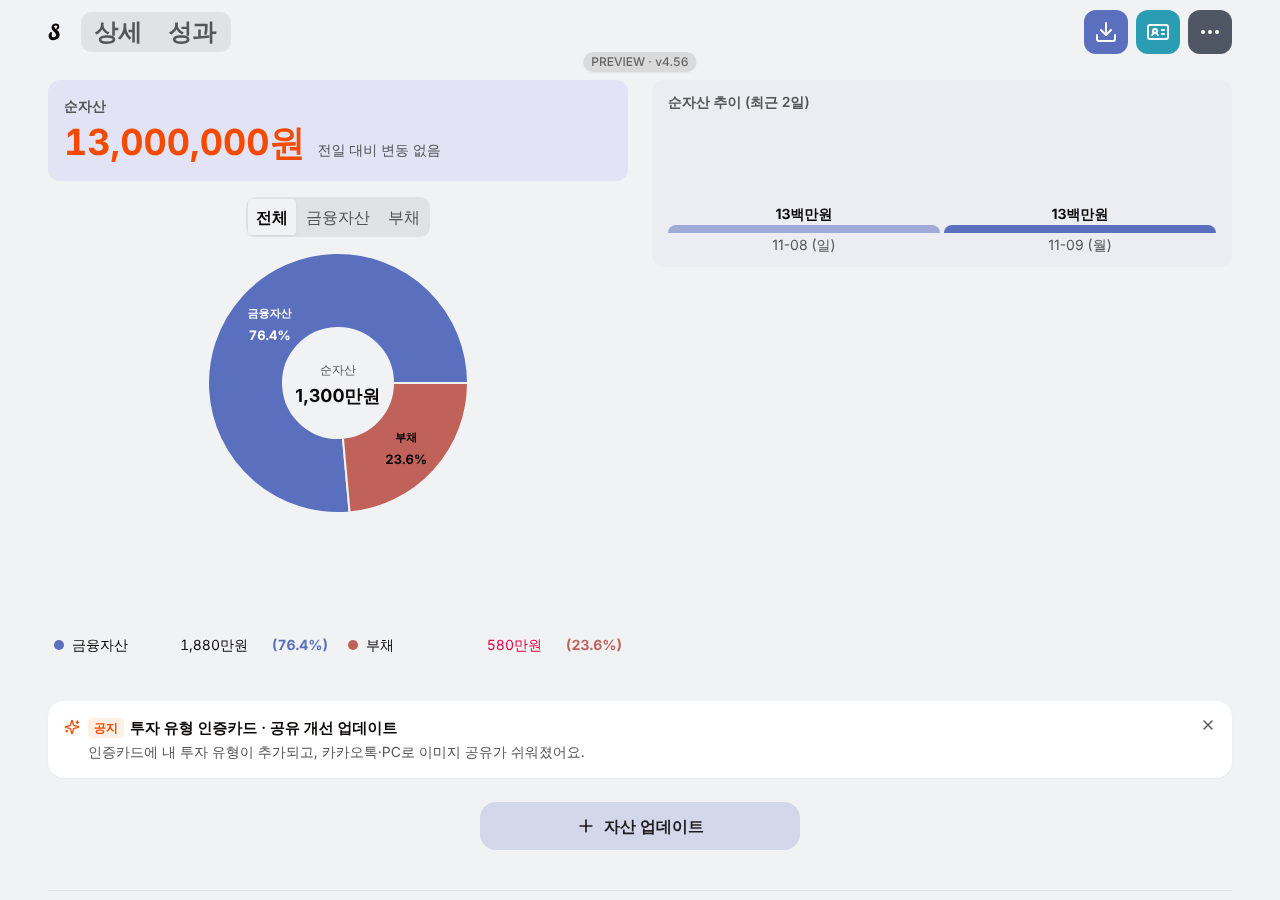
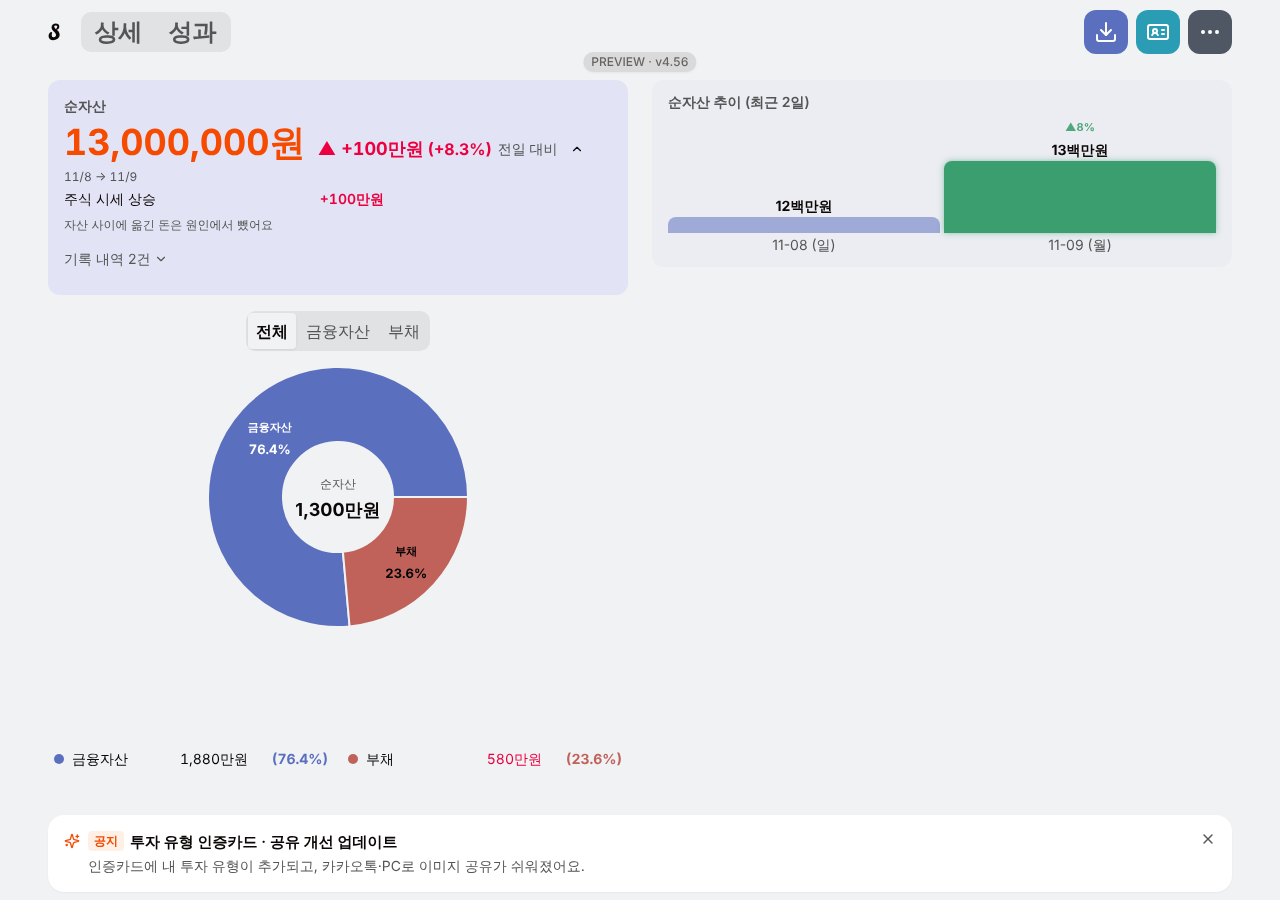
memory: 4.56 최종 qa(869984a) FAIL 경미 1건(F4 320 미리보기 잘림), 데이터 안전 45/45

diff --git a/issues/4.56-103-cross-asset-flow/harness-qa/e2e58/t3.js b/issues/4.56-103-cross-asset-flow/harness-qa/e2e58/t3.js
@@ -1,0 +1,43 @@
+const L=require('./lib.js');const SH='/home/user/vaultfolio-4.56'.length&&'/home/user/vaultfolio/.memory/issues/4.56-103-cross-asset-flow/screenshots/';
+const J=JSON.stringify;
+const R={proxy:process.env.HTTPS_PROXY?{server:process.env.HTTPS_PROXY}:undefined};
+const bal=(d)=>J({cash:d.cash.map(c=>c.id+':'+c.balance),loans:d.loans.map(c=>c.id+':'+c.balance),ctx:d.cashTransactions.length,ltx:d.loanTransactions.length,tx:d.transactions.length});
+async function step(name,fn){try{console.log('\n## '+name);await fn();}catch(e){console.log('!! ERR',name,e.message.split('\n')[0]);}}
+(async()=>{const b=await L.chromium.launch(R);
+const A=(o)=>L.mk(o);
+await step('F1 현금 하한(KRW): 잔액 800000, 80만 매수 전액',async()=>{
+ const {ctx,p}=await L.open(b,{asset:A({cash:[{id:'a',type:'bank',name:'증권 예수금',balance:800000,currency:'KRW'}]})});
+ const o=await L.trade(p,{kind:'stock',id:'s1',type:'buy',qty:10,price:80000,link:'증권 예수금',submit:false,shot:SH+'4.58-qa-F1-zero-375.png'});console.log(J(o));
+ const d=await p.locator('[role=dialog]').last().getByRole('button',{name:/매수 기록/}).click();await p.waitForTimeout(800);
+ console.log(' toast',J(await p.locator('[data-sonner-toast]').allTextContents()),'저장 후',bal(await L.data(p)));await ctx.close();});
+await step('F2 현금 하한: 잔액 800001 → 1원 남김 허용',async()=>{
+ const {ctx,p}=await L.open(b,{asset:A({cash:[{id:'a',type:'bank',name:'증권 예수금',balance:800001,currency:'KRW'}]})});
+ const o=await L.trade(p,{kind:'stock',id:'s1',type:'buy',qty:10,price:80000,link:'증권 예수금'});console.log(J(o),bal(await L.data(p)));await ctx.close();});
+await step('F3 대출 하한 0원: 대출 300000, 매도 300000 상환',async()=>{
+ const {ctx,p}=await L.open(b,{asset:A({loans:[{id:'l',type:'credit',name:'신용대출',balance:300000,interestRate:3,startDate:'2025-01-01'}]})});
+ const o=await L.trade(p,{kind:'stock',id:'s1',type:'sell',qty:5,price:60000,link:'신용대출',shot:SH+'4.58-qa-F3-loan0-375.png'});console.log(J(o),bal(await L.data(p)));await ctx.close();});
+await step('F3b 대출 초과 상환 차단: 대출 300000, 매도 400000',async()=>{
+ const {ctx,p}=await L.open(b,{asset:A({loans:[{id:'l',type:'credit',name:'신용대출',balance:300000,interestRate:3,startDate:'2025-01-01'}]})});
+ const o=await L.trade(p,{kind:'stock',id:'s1',type:'sell',qty:5,price:80000,link:'신용대출',shot:SH+'4.58-qa-F3b-loan-over-375.png'});console.log(J(o),bal(await L.data(p)));await ctx.close();});
+await step('G1 지난달 날짜: 행 숨김, 복귀 시 연결 안 함',async()=>{
+ const {ctx,p}=await L.open(b,{});const pm=L.kst(-12);
+ const o=await L.trade(p,{kind:'stock',id:'s1',type:'buy',qty:1,price:80000,link:'증권 예수금',date:pm,submit:false,shot:SH+'4.58-qa-G1-pastdate-375.png'});console.log(' 지난달('+pm+') 행 수',J(o.rowCount),'(link 시도 불가=0이면 숨김)');
+ await p.locator('[role=dialog]').last().locator('input[type=date]').fill(L.T);await p.waitForTimeout(500);
+ console.log(' 이번달 복귀 행 수',await p.locator('[data-testid=account-link-row]').count(),'선택값',await p.locator('[data-testid=account-link-select]').innerText());await ctx.close();});
+await step('H1 USD 주식: 후보=달러 계좌만(대출 없음)',async()=>{
+ const {ctx,p}=await L.open(b,{});
+ const o=await L.trade(p,{kind:'stock',id:'s2',type:'buy',qty:2,price:200,link:'__peek',submit:false});console.log(J(o));
+ await p.locator('[data-testid=account-link-select]').click();await p.getByRole('option',{name:'달러 계좌'}).click();await p.waitForTimeout(600);
+ console.log(' preview',J(await p.locator('[data-testid=cash-link-preview]').allTextContents()));await p.screenshot({path:SH+'4.58-qa-H1-usd-375.png'});
+ await p.locator('[role=dialog]').last().getByRole('button',{name:/매수 기록/}).click();await p.waitForTimeout(900);
+ console.log(' toast',J(await p.locator('[data-sonner-toast]').allTextContents()),(await L.data(p)).cash.map(c=>c.id+':'+c.balance).join(),(await L.data(p)).cashTransactions.map(t=>t.currency+t.amount).join());await ctx.close();});
+await step('H2 JPY 주식 후보',async()=>{
+ const {ctx,p}=await L.open(b,{});
+ const o=await L.trade(p,{kind:'stock',id:'s3',type:'buy',qty:10,price:1000,link:'엔화 계좌',submit:false});console.log(J(o));await p.screenshot({path:SH+'4.58-qa-H2-jpy-375.png'});await ctx.close();});
+await step('J1 [회귀①] JPY 현금 전액 연결 매수 → zero 차단',async()=>{
+ const {ctx,p}=await L.open(b,{});
+ const o=await L.trade(p,{kind:'stock',id:'s3',type:'buy',qty:10,price:10000,link:'엔화 계좌',shot:SH+'4.58-qa-J1-jpy-zero-375.png'});console.log(J(o),bal(await L.data(p)));await ctx.close();});
+await step('J1b JPY 잔액-1엔 남기는 매수는 허용(¥100,000→¥1)',async()=>{
+ const {ctx,p}=await L.open(b,{});
+ const o=await L.trade(p,{kind:'stock',id:'s3',type:'buy',qty:1,price:99999,link:'엔화 계좌',shot:SH+'4.58-qa-J1b-jpy-leave1-375.png'});console.log(J(o),bal(await L.data(p)));await ctx.close();});
+await b.close();})();

diff --git a/issues/4.56-103-cross-asset-flow/harness-qa/e2e58/lib.js b/issues/4.56-103-cross-asset-flow/harness-qa/e2e58/lib.js
@@ -1,0 +1,53 @@
+const {chromium}=require('/opt/node-tools/node_modules/playwright');
+const BASE='https://secretasset-git-issue-456-bbplayworlds-projects.vercel.app';
+const HOST=new URL(BASE).hostname;
+const kst=(d)=>new Date(Date.now()+9*3600e3+d*864e5).toISOString().slice(0,10);
+const T=kst(0);
+const M=1e6;
+const mk=(o={})=>({realEstate:[],
+ stocks:[{id:'s3',category:'foreign',name:'소니',ticker:'6758',quantity:10,averagePrice:3000,currentPrice:3500,currency:'JPY',purchaseDate:'2025-01-01'},{id:'s1',category:'domestic',name:'삼성전자',ticker:'005930',quantity:100,averagePrice:70000,currentPrice:80000,currency:'KRW',purchaseDate:'2025-01-01'},
+  {id:'s2',category:'foreign',name:'애플',ticker:'AAPL',quantity:10,averagePrice:150,currentPrice:200,currency:'USD',purchaseDate:'2025-01-01'}],
+ crypto:[{id:'c1',symbol:'BTC',name:'비트코인',quantity:1,averagePrice:40000000,currentPrice:50000000,purchaseDate:'2025-01-01'}],
+ cash:[{id:'a',type:'bank',name:'증권 예수금',balance:10*M,currency:'KRW'},{id:'u',type:'bank',name:'달러 계좌',balance:5000,currency:'USD'},{id:'j',type:'bank',name:'엔화 계좌',balance:100000,currency:'JPY'}],
+ loans:[{id:'l',type:'credit',name:'신용대출',balance:5*M,interestRate:3,startDate:'2025-01-01'}],
+ yearlyNetAssets:[],transactions:[],cashTransactions:[],loanTransactions:[],cryptoTransactions:[],lastUpdated:new Date().toISOString(),nickname:'',...o});
+async function open(b,{w=375,dark=false,asset=mk(),snaps=[],ls={}}={}){
+ const ctx=await b.newContext({viewport:{width:w,height:w>=1024?900:812},deviceScaleFactor:1});
+ await ctx.addCookies([{name:'theme_mode',value:dark?'dark':'light',domain:HOST,path:'/',secure:true}]);
+ const reqs=[];
+ await ctx.route('**/api/**',r=>{reqs.push(r.request().method()+' '+new URL(r.request().url()).pathname);r.abort()});
+ await ctx.addInitScript(([a,sn,ls])=>{ if(sessionStorage.getItem('seeded'))return; sessionStorage.setItem('seeded','1');for(const k in ls)localStorage.setItem(k,JSON.stringify(ls[k]));
+  localStorage.setItem('secretasset_tutorial_status',JSON.stringify({1:'done',2:'done',3:'done',4:'done',5:'done'}));
+  localStorage.setItem('secretasset_asset_data',JSON.stringify(a));localStorage.setItem('secretasset_daily_snapshots',JSON.stringify(sn));
+  localStorage.setItem('secretasset_onboarding_wizard_status','done');},[asset,snaps,ls]);
+ const p=await ctx.newPage();const errs=[];p.on('pageerror',e=>errs.push(e.message));
+ await p.goto(BASE+'/',{waitUntil:'domcontentloaded'});await p.waitForTimeout(4500);
+ return {ctx,p,reqs,errs};}
+const data=(p)=>p.evaluate(()=>JSON.parse(localStorage.getItem('secretasset_asset_data')));
+module.exports={chromium,BASE,mk,open,data,T,kst,M};
+module.exports.trade=async function(p,{kind='stock',id,type='buy',qty,price,link,date,shot,submit=true}){
+ const ev=kind==='stock'?'trigger-add-trade':'trigger-add-crypto-tx';const key=kind==='stock'?'stockId':'cryptoId';
+ await p.evaluate(([e,k,i])=>window.dispatchEvent(new CustomEvent(e,{detail:{[k]:i}})),[ev,key,id]);await p.waitForTimeout(900);
+ const d=p.locator('[role=dialog]').last();
+ if(type==='sell')await d.getByRole('button',{name:'매도',exact:true}).click();
+ const ins=d.locator('input[inputmode=numeric], input[inputmode=decimal]');
+ await ins.nth(0).fill(String(qty));await ins.nth(1).fill(String(price));
+ if(date)await d.locator('input[type=date]').fill(date);
+ await p.waitForTimeout(400);
+ const out={};
+ if(link){const row=d.locator('[data-testid=account-link-row]');out.rowCount=await row.count();
+  if(out.rowCount){await d.locator('[data-testid=account-link-select]').click();await p.waitForTimeout(300);
+   out.options=await p.locator('[role=option]').allTextContents();
+   if(link!=='__peek'){await p.getByRole('option',{name:link,exact:true}).click();await p.waitForTimeout(700);}else await p.keyboard.press('Escape');}}
+ else{out.rowCount=await d.locator('[data-testid=account-link-row]').count();}
+ out.preview=await d.locator('[data-testid=cash-link-preview]').allTextContents().catch(()=>null);
+ out.alerts=await d.locator('[role=alert]').allTextContents();
+ out.resync=await d.locator('[data-testid*=resync-warning]').count();
+ if(shot)await p.screenshot({path:shot});
+ if(submit){await d.getByRole('button',{name:type==='buy'?/매수 기록/:/매도 기록/}).click();await p.waitForTimeout(900);
+  out.toast=await p.locator('[data-sonner-toast]').allTextContents();out.dialogOpen=await p.locator('[role=dialog]').count();}
+ return out;};
+module.exports.toStockHistory=async function(p){
+ await p.getByText('상세',{exact:true}).first().click();await p.waitForTimeout(800);
+ await p.getByText('국내·해외 보유 종목').click();await p.waitForTimeout(1000);
+ await p.getByRole('button',{name:'거래내역'}).first().click();await p.waitForTimeout(1000);};

diff --git a/issues/4.56-103-cross-asset-flow/harness-qa/e2e58/t4.js b/issues/4.56-103-cross-asset-flow/harness-qa/e2e58/t4.js
@@ -1,0 +1,40 @@
+const L=require('./lib.js');const SH='/home/user/vaultfolio/.memory/issues/4.56-103-cross-asset-flow/screenshots/';
+const J=JSON.stringify;const R={proxy:process.env.HTTPS_PROXY?{server:process.env.HTTPS_PROXY}:undefined};
+const iso=new Date().toISOString();
+async function step(name,fn){try{console.log('\n## '+name);await fn();}catch(e){console.log('!! ERR',name,e.message.split('\n')[0]);}}
+const cashHist=async(p,name)=>{await p.getByText('상세',{exact:true}).first().click();await p.waitForTimeout(800);await p.getByText('현금성 자산').first().click();await p.waitForTimeout(900);
+ await p.locator(`button:has-text("${name}")`).first().click();await p.waitForTimeout(700);await p.getByRole('button',{name:'입출금 내역'}).click();await p.waitForTimeout(800);};
+(async()=>{const b=await L.chromium.launch(R);
+await step('K1 [회귀②-a] JPY 연결 거래 삭제 다이얼로그 꼬리(¥1)',async()=>{
+ const base=L.mk();base.cash=base.cash.map(c=>c.id==='j'?{...c,balance:200}:c);
+ base.transactions=[{id:'t_j',stockId:'s3',ticker:'6758',stockName:'소니',type:'sell',quantity:1,price:1000,currency:'JPY',date:L.T,reflected:true,createdAt:iso}];
+ base.stocks=base.stocks.map(s=>s.id==='s3'?{...s,quantity:9}:s);
+ base.cashTransactions=[{id:'ctx_link_t_j',cashId:'j',type:'deposit',amount:1000,currency:'JPY',date:L.T,reflected:true,createdAt:iso}];
+ const {ctx,p}=await L.open(b,{asset:base});
+ await p.getByText('상세',{exact:true}).first().click();await p.waitForTimeout(800);await p.getByText('국내·해외 보유 종목').click();await p.waitForTimeout(1000);await p.locator('button:has-text("소니")').first().click();await p.waitForTimeout(800);await p.getByRole('button',{name:'거래내역'}).last().click();await p.waitForTimeout(900);await p.locator('button[title=삭제]').first().click();await p.waitForTimeout(700);
+ console.log(' dialog:',(await p.locator('[role=dialog],[role=alertdialog]').last().innerText()).split('\n').filter(l=>/연결/.test(l)).join(' | '));
+ await p.screenshot({path:SH+'4.58-qa-K1-jpy-delete-dialog-375.png'});
+ await p.getByRole('button',{name:'삭제 + 롤백'}).click();await p.waitForTimeout(900);
+ const d=await L.data(p);console.log(' toast',J(await p.locator('[data-sonner-toast]').allTextContents()),'j잔액',d.cash.find(c=>c.id==='j').balance,'ctx',d.cashTransactions.length);await ctx.close();});
+for(const [cur,nm,bal0,amt] of [['JPY','엔화 계좌',500,1000],['KRW','증권 예수금',300,1000]])
+await step(`K2 [회귀②-b/v4.57] ${cur} 반영 입금 기록 삭제 하한`,async()=>{
+ const base=L.mk();base.cash=base.cash.map(c=>c.name===nm?{...c,balance:bal0}:c);const cid=base.cash.find(c=>c.name===nm).id;
+ base.cashTransactions=[{id:'ctx_x1',cashId:cid,type:'deposit',amount:amt,currency:cur,date:L.T,reflected:true,reflectedAt:iso,reflectionId:'r1',createdAt:iso}];
+ const {ctx,p}=await L.open(b,{asset:base});
+ await cashHist(p,nm);await p.locator('button[title=삭제]').first().click();await p.waitForTimeout(700);
+ console.log(' dialog:',(await p.evaluate(()=>document.body.innerText)).split('\n').filter(l=>/→|부족|되돌/.test(l)).join(' | '));
+ await p.screenshot({path:SH+`4.58-qa-K2-${cur}-delete-375.png`});
+ await p.getByRole('button',{name:'삭제',exact:true}).last().click();await p.waitForTimeout(900);
+ const d=await L.data(p);console.log(' toast',J(await p.locator('[data-sonner-toast]').allTextContents()),'잔액',d.cash.find(c=>c.id===cid).balance,'기록',d.cashTransactions.length);await ctx.close();});
+await step('K3 [v4.57 회귀] 현금 전액 출금 차단 / 전액-1 허용',async()=>{
+ const base=L.mk();base.cash=[{id:'a',type:'bank',name:'생활비',balance:3000000,currency:'KRW'}];
+ for(const amt of [3000000,2999999]){
+  const {ctx,p}=await L.open(b,{asset:JSON.parse(JSON.stringify(base))});
+  await p.evaluate(()=>window.dispatchEvent(new CustomEvent('trigger-add-cash-tx',{detail:{cashId:'a'}})));await p.waitForTimeout(900);
+  const d=p.locator('[role=dialog]').last();await d.getByRole('button',{name:'출금',exact:true}).click();
+  await d.locator('input').first().fill(String(amt));await p.waitForTimeout(400);
+  console.log(' amt',amt,'폼 텍스트:',(await d.innerText()).split('\n').filter(l=>/부족|0원|남|1원|초과/.test(l)).join(' | '));
+  await p.screenshot({path:SH+`4.58-qa-K3-cash-wd-${amt}-375.png`});
+  await d.getByRole('button',{name:/출금 기록/}).click();await p.waitForTimeout(900);
+  const dd=await L.data(p);console.log('  toast',J(await p.locator('[data-sonner-toast]').allTextContents()),'잔액',dd.cash[0].balance,'기록',dd.cashTransactions.length);await ctx.close();}});
+await b.close();})();

diff --git a/issues/4.56-103-cross-asset-flow/harness-qa/e2e58/t5.js b/issues/4.56-103-cross-asset-flow/harness-qa/e2e58/t5.js
@@ -1,0 +1,31 @@
+const L=require('./lib.js');const SH='/home/user/vaultfolio/.memory/issues/4.56-103-cross-asset-flow/screenshots/';
+const J=JSON.stringify;const R={proxy:process.env.HTTPS_PROXY?{server:process.env.HTTPS_PROXY}:undefined};
+async function step(name,fn){try{console.log('\n## '+name);await fn();}catch(e){console.log('!! ERR',name,e.message.split('\n')[0]);}}
+const gaps=(p)=>p.evaluate(()=>{const row=document.querySelector('[data-testid=account-link-row]');const out=[];let el=row;const form=row.parentElement;const kids=[...form.children].filter(k=>k.getBoundingClientRect().height>0||true);
+ const i=kids.indexOf(row);for(let j=i;j<Math.min(kids.length,i+3);j++){const r=kids[j].getBoundingClientRect();out.push({tag:kids[j].tagName+(kids[j].getAttribute('data-testid')?'#'+kids[j].getAttribute('data-testid'):''),top:Math.round(r.top*10)/10,h:Math.round(r.height*10)/10});}
+ const g=[];for(let j=1;j<out.length;j++)g.push(Math.round((out[j].top-(out[j-1].top+out[j-1].h))*10)/10);return {out,gapsPx:g,warn:!!document.querySelector('[data-testid=cash-tx-resync-warning]')};});
+(async()=>{const b=await L.chromium.launch(R);
+for(const [nm,ls] of [['W0 경고 접힘(맞춘 기록 없음)',{}],['W1 경고 표시(오늘 맞춘 현금)',{secretasset_asset_refresh:{categories:{cash:new Date().toISOString()}}}]])
+await step(nm,async()=>{
+ for(const dark of [false,true]){
+ const {ctx,p}=await L.open(b,{ls,dark});
+ const o=await L.trade(p,{kind:'stock',id:'s1',type:'buy',qty:10,price:80000,link:'증권 예수금',submit:false,shot:SH+`4.58-qa-${nm.slice(0,2)}-375-${dark?'dark':'light'}.png`});
+ console.log(dark?' dark':' light','alerts',J(o.alerts),'resync',o.resync,J(await gaps(p)));
+ if(!dark&&nm.startsWith('W1')){console.log(' 경고문구:',await p.locator('[data-testid=cash-tx-resync-warning]').innerText());
+  // 저장 가능
+  await p.locator('[role=dialog]').last().getByRole('button',{name:/매수 기록/}).click();await p.waitForTimeout(900);console.log(' 저장 toast',J(await p.locator('[data-sonner-toast]').allTextContents()));}
+ await ctx.close();}});
+await step('W2 연결 안 함 선택 시 경고 접힘(렌더 0)·간격',async()=>{
+ const {ctx,p}=await L.open(b,{ls:{secretasset_asset_refresh:{categories:{cash:new Date().toISOString()}}}});
+ await L.trade(p,{kind:'stock',id:'s1',type:'buy',qty:10,price:80000,link:'증권 예수금',submit:false});
+ await p.locator('[data-testid=account-link-select]').click();await p.getByRole('option',{name:'연결 안 함'}).click();await p.waitForTimeout(500);
+ console.log(J(await gaps(p)));await ctx.close();});
+await step('P1 320 미리보기 2줄 분리(긴 계좌명·큰 금액)',async()=>{
+ for(const [w,dark] of [[320,false],[320,true],[375,false],[1280,false]]){
+ const base=L.mk();base.cash=base.cash.map(c=>c.id==='a'?{...c,name:'한국투자증권 종합위탁 예수금 계좌',balance:1234567890}:c);
+ const {ctx,p}=await L.open(b,{w,dark,asset:base});
+ const o=await L.trade(p,{kind:'stock',id:'s1',type:'buy',qty:10,price:8000000,link:'한국투자증권 종합위탁 예수금 계좌',submit:false,shot:SH+`4.58-qa-P1-preview-${w}-${dark?'dark':'light'}.png`});
+ const m=await p.evaluate(()=>{const pe=document.querySelector('[data-testid=cash-link-preview]');const sp=pe.querySelector('span.whitespace-nowrap');const lh=parseFloat(getComputedStyle(pe).lineHeight);
+  return {text:pe.innerText,h:Math.round(pe.getBoundingClientRect().height),lineH:lh,lines:Math.round(pe.getBoundingClientRect().height/lh),nowrapRects:sp.getClientRects().length,nowrapW:Math.round(sp.getBoundingClientRect().width),pW:Math.round(pe.getBoundingClientRect().width),hscroll:document.documentElement.scrollWidth>innerWidth,overflowSp:sp.getBoundingClientRect().right>pe.getBoundingClientRect().right+1};});
+ console.log(' w',w,dark?'dark':'light',J(m));await ctx.close();}});
+await b.close();})();

diff --git a/issues/4.56-103-cross-asset-flow/harness-qa/e2e58/t1.js b/issues/4.56-103-cross-asset-flow/harness-qa/e2e58/t1.js
@@ -1,0 +1,23 @@
+const L=require('./lib.js');const SH='/home/user/vaultfolio/.memory/issues/4.56-103-cross-asset-flow/screenshots/';
+const sum=(d)=>({cash:d.cash.map(c=>c.id+':'+c.balance),loans:d.loans.map(c=>c.id+':'+c.balance),ctx:d.cashTransactions.map(t=>t.id+'/'+t.type+'/'+t.amount),ltx:d.loanTransactions.map(t=>t.id+'/'+t.type+'/'+t.amount),tx:d.transactions.map(t=>t.id+'/'+t.type+'/'+t.quantity),ctxs:(d.cryptoTransactions||[]).map(t=>t.id+'/'+t.type),stocks:d.stocks.map(s=>s.id+':'+s.quantity),crypto:d.crypto.map(s=>s.id+':'+s.quantity)});
+(async()=>{const b=await L.chromium.launch({proxy:process.env.HTTPS_PROXY?{server:process.env.HTTPS_PROXY}:undefined});
+const cases=[
+ ['E1 주식 매수 x 현금',{kind:'stock',id:'s1',type:'buy',qty:10,price:80000,link:'증권 예수금'}],
+ ['E2 주식 매도 x 현금',{kind:'stock',id:'s1',type:'sell',qty:5,price:80000,link:'증권 예수금'}],
+ ['E3 주식 매수 x 대출',{kind:'stock',id:'s1',type:'buy',qty:10,price:80000,link:'신용대출'}],
+ ['E4 주식 매도 x 대출(상환)',{kind:'stock',id:'s1',type:'sell',qty:5,price:80000,link:'신용대출'}],
+ ['E5 코인 매수 x 현금',{kind:'crypto',id:'c1',type:'buy',qty:0.01,price:50000000,link:'증권 예수금'}],
+ ['E6 코인 매도 x 현금',{kind:'crypto',id:'c1',type:'sell',qty:0.01,price:50000000,link:'증권 예수금'}],
+ ['E7 코인 매수 x 대출',{kind:'crypto',id:'c1',type:'buy',qty:0.01,price:50000000,link:'신용대출'}],
+ ['E8 코인 매도 x 대출',{kind:'crypto',id:'c1',type:'sell',qty:0.01,price:50000000,link:'신용대출'}],
+ ['E9 연결 없이 코인 저장(#107 회귀)',{kind:'crypto',id:'c1',type:'buy',qty:0.01,price:50000000}],
+ ['E10 연결 없이 주식 저장',{kind:'stock',id:'s1',type:'buy',qty:1,price:80000}],
+];
+for(const [name,c] of cases){
+ const {ctx,p,reqs,errs}=await L.open(b,{});
+ const before=await L.data(p);
+ const o=await L.trade(p,{...c,shot:SH+'4.58-qa-'+name.slice(0,2)+'-form-375.png'});
+ const after=await L.data(p);
+ console.log('\n##',name,JSON.stringify(o),'\n BEFORE',JSON.stringify(sum(before)),'\n AFTER ',JSON.stringify(sum(after)),'\n reqs',JSON.stringify(reqs.filter(r=>!r.includes('/api/quotes'))),errs.length?'ERRS '+errs:'');
+ await ctx.close();}
+await b.close();})();

diff --git a/issues/4.56-103-cross-asset-flow/harness-qa/e2e58/t7.js b/issues/4.56-103-cross-asset-flow/harness-qa/e2e58/t7.js
@@ -1,0 +1,15 @@
+const L=require('./lib.js');const SH='/home/user/vaultfolio/.memory/issues/4.56-103-cross-asset-flow/screenshots/';
+const J=JSON.stringify;const R={proxy:process.env.HTTPS_PROXY?{server:process.env.HTTPS_PROXY}:undefined};const M=1e6;const Y=L.kst(-1);
+(async()=>{const b=await L.chromium.launch(R);
+const asset=()=>L.mk({stocks:[{id:'s1',category:'domestic',name:'삼성전자',ticker:'005930',quantity:100,averagePrice:70000,currentPrice:80000,currency:'KRW',purchaseDate:Y}],crypto:[],cash:[{id:'a',type:'bank',name:'증권 예수금',balance:10*M,currency:'KRW'}],loans:[{id:'l',type:'credit',name:'신용대출',balance:5*M,interestRate:3,startDate:'2025-01-01'}]});
+const snap={date:Y,netAsset:12*M,financialAsset:17*M,breakdown:{realEstate:0,stocks:7*M,crypto:0,cash:10*M,loans:5*M,tenantDeposit:0,physical:0},fx:{USD:1400,JPY:900},fxBase:{USD:0,JPY:0},cost:{total:7*M,stock:7*M,crypto:0,realEstate:0,physical:0}};
+for(const [nm,c] of [['연결 매수(현금)',{type:'buy',qty:10,price:80000,link:'증권 예수금'}],['연결 매수(대출)',{type:'buy',qty:10,price:80000,link:'신용대출'}],['연결 안 함 매수',{type:'buy',qty:10,price:80000}]]){
+ for(const w of [375,1280]){
+ const {ctx,p}=await L.open(b,{w,asset:asset(),snaps:[snap]});
+ await L.trade(p,{kind:'stock',id:'s1',...c});await p.waitForTimeout(500);
+ await p.getByText('홈',{exact:true}).first().click().catch(()=>{});await p.waitForTimeout(800);
+ const btn=p.locator('button[aria-label="변동 원인 보기"]');let open=false;if(await btn.count()){await btn.first().click();await p.waitForTimeout(600);open=true;}
+ const r=await p.evaluate(()=>{const cap=document.querySelector('[data-testid="home-cause-offset-caption"]');const list=[...document.querySelectorAll('ul.max-w-xs li')].map(l=>l.textContent.replace(/\s+/g,' ').trim());return {cap:cap?.textContent||null,items:list,hscroll:document.documentElement.scrollWidth>innerWidth};});
+ console.log(nm,w,'open',open,J(r));
+ await p.screenshot({path:SH+`4.58-qa-N1-home-${nm.slice(0,5).replace(/[ ()]/g,'')}-${w}.png`});await ctx.close();}}
+await b.close();})();

diff --git a/issues/4.56-103-cross-asset-flow/harness-qa/e2e58/t2.js b/issues/4.56-103-cross-asset-flow/harness-qa/e2e58/t2.js
@@ -1,0 +1,20 @@
+const L=require('./lib.js');const SH='/home/user/vaultfolio/.memory/issues/4.56-103-cross-asset-flow/screenshots/';
+const J=(x)=>JSON.stringify(x);
+const S=(d)=>J({cash:d.cash.map(c=>c.id+':'+c.balance),loans:d.loans.map(c=>c.id+':'+c.balance),ctx:d.cashTransactions.map(t=>t.id.slice(0,22)+'/'+t.type+'/'+t.amount),ltx:d.loanTransactions.map(t=>t.id.slice(0,22)+'/'+t.type+'/'+t.amount),tx:d.transactions.length,crtx:(d.cryptoTransactions||[]).length,s1:d.stocks.find(s=>s.id==='s1')?.quantity,c1:d.crypto[0]?.quantity});
+const R={proxy:process.env.HTTPS_PROXY?{server:process.env.HTTPS_PROXY}:undefined};
+async function step(name,fn){try{console.log('\n## '+name);await fn();}catch(e){console.log('!! ERR',name,e.message.split('\n')[0]);}}
+(async()=>{const b=await L.chromium.launch(R);
+// D1 주식 매수(현금) 삭제
+await step('D5 코인 연결 후 삭제',async()=>{
+ const {ctx,p}=await L.open(b,{});const d0=await L.data(p);
+ await L.trade(p,{kind:'crypto',id:'c1',type:'buy',qty:0.01,price:50000000,link:'증권 예수금'});console.log(' saved',S(await L.data(p)));
+ await p.getByText('상세',{exact:true}).first().click();await p.waitForTimeout(800);await p.getByText('보유 코인').click();await p.waitForTimeout(1000);
+ await p.locator('button:has-text("비트코인")').first().click();await p.waitForTimeout(1000);
+  await p.getByRole('button',{name:'매수/매도 내역'}).first().click();await p.waitForTimeout(1000);
+ await p.locator('button[title=삭제]').first().click();await p.waitForTimeout(700);
+ console.log(' dialog:',(await p.evaluate(()=>document.body.innerText)).split('\n').filter(l=>/연결된|롤백|삭제/.test(l)).join(' | '));
+ await p.screenshot({path:SH+'4.58-qa-D5-delete-dialog-375.png'});
+ await p.getByRole('button',{name:'삭제',exact:true}).last().click();await p.waitForTimeout(900);
+ console.log(' toast:',J(await p.locator('[data-sonner-toast]').allTextContents()));
+ const d2=await L.data(p);console.log(' after',S(d2),'시작',S(d0));await ctx.close();});
+await b.close();})();

diff --git a/issues/4.56-103-cross-asset-flow/harness-qa/e2e58/t6.js b/issues/4.56-103-cross-asset-flow/harness-qa/e2e58/t6.js
@@ -1,0 +1,15 @@
+const L=require('./lib.js');const SH='/home/user/vaultfolio/.memory/issues/4.56-103-cross-asset-flow/screenshots/';
+const J=JSON.stringify;const R={proxy:process.env.HTTPS_PROXY?{server:process.env.HTTPS_PROXY}:undefined};
+(async()=>{const b=await L.chromium.launch(R);
+const cases=[['수십만',500000,'증권 예수금',2,80000],['수백만',5000000,'증권 예수금',10,80000],['억',123456789,'증권 예수금',10,8000000],['10억',1234567890,'한국투자증권 종합위탁 예수금 계좌',10,8000000]];
+for(const w of [320,375])for(const [lab,bal,name,q,pr] of cases){
+ const base=L.mk();base.cash=base.cash.map(c=>c.id==='a'?{...c,name,balance:bal}:c);
+ const {ctx,p}=await L.open(b,{w,asset:base});
+ await L.trade(p,{kind:'stock',id:'s1',type:'buy',qty:q,price:pr,link:name,submit:false});
+ const row=p.locator('[data-testid=account-link-row]');await row.scrollIntoViewIfNeeded();
+ const m=await p.evaluate(()=>{const pe=document.querySelector('[data-testid=cash-link-preview]');const sp=pe.querySelector('span.whitespace-nowrap');const lh=parseFloat(getComputedStyle(pe).lineHeight);
+  return {t:pe.innerText.slice(-34),lines:Math.round(pe.getBoundingClientRect().height/lh),spW:Math.round(sp.getBoundingClientRect().width),pW:Math.round(pe.getBoundingClientRect().width),clipped:sp.getBoundingClientRect().right>pe.getBoundingClientRect().right+1};});
+ console.log(w,lab,J(m));
+ if(w===320)await row.screenshot({path:SH+`4.58-qa-P2-preview-${lab}-320.png`});
+ await ctx.close();}
+await b.close();})();

diff --git a/issues/4.56-103-cross-asset-flow/harness-qa/qa.py b/issues/4.56-103-cross-asset-flow/harness-qa/qa.py
@@ -1,6 +1,6 @@
 import json, os, subprocess, shutil, sys
 SP="/tmp/claude-0/-home-user-vaultfolio/35b35548-5942-5886-b0bd-2d4a3cbe1dd9/scratchpad"
-H=SP+"/qah"; NEW=SP+"/new39"; OLD=SP+"/old028"; W=H+"/work"
+H=SP+"/qah"; NEW=SP+"/new58"; OLD=SP+"/old457"; W=H+"/work"
 shutil.rmtree(W,ignore_errors=True); os.makedirs(W)
 for t in (NEW,OLD): shutil.copy(H+"/qa-dev.test.ts", t+"/src/lib/__tests__/qa-dev.test.ts")
 SRV=W+"/server.json"; n=[0]; fails=[]

diff --git a/issues/4.56-103-cross-asset-flow/4.56-qa-report.md b/issues/4.56-103-cross-asset-flow/4.56-qa-report.md
@@ -104,3 +104,102 @@ ls-remote = 70999a3, Vercel success·HTTP 200. **판정: PASS** (코인 연결 U
 - CHECKLIST: 1차 판정 유지, **C42 이제 PASS**(F18·F20·F24·F27 픽스처 추가).
 
 대표 요약: ① 주식·코인 거래 저장 시 현금·대출 계좌를 골라 짝 기록과 잔액을 함께 반영하고, 삭제하면 함께 되돌리며 홈·결산은 내부 이동을 원인에서 뺀다 ② 실제 구버전 코드 혼재 동기화·백업·토큰·롤백·과거 결산을 독립 재현했고 preview에서 매수·매도·삭제·오류·지난달·외화·하한 1원까지 실측했다 ③ 남은 한계: 구버전 삭제 시 짝 잔존·토큰 이동 시 연결 풀림·동시 편집 잔액 원격 우선, 코인 연결 UI는 #107 병합 뒤 최종 확인.
+
+
+---
+# 최종 qa (2026-11-09) — 기준 커밋 **869984a0a0a691d181f65e0374ee9064b0498c1f** (`[#4.58]`, issue-4.56)
+`git ls-remote origin issue-4.56` = 869984a 일치. Vercel preview HTTP 200(`?demo=1`·루트). 설정 화면 배지는 브랜치명 기준 `PREVIEW · v4.56`(빌드 주입 규칙, 머지 후 main에서는 커밋 제목 `[#4.58]`).
+## 최종 판정: **FAIL** (경미 1건 F4 — 320px 미리보기 금액 잘림. 데이터 안전·기능·회귀는 전부 PASS, 사용자 기록 손실 가능성 없음)
+
+## 1. 자동 검사
+| 항목 | 결과 |
+|---|---|
+| `npx vitest run` | 90 files / **1253 tests PASS** |
+| `npx tsc --noEmit` | 0 errors |
+| `npm run lint` | 0 errors, 44 warnings(기존 유형: security 플러그인) |
+| `npm run build` | PASS |
+
+## 2. preview 실측 (Playwright, localStorage 주입 데이터, 375px 기본 / 320·1280 추가)
+스크립트 `harness-qa/e2e58/*.js`(일회성), 스크린샷 `screenshots/4.58-qa-*.png`(43장). 모든 시나리오 `pageerror` 0, 가로 넘침 0, 요청은 시세 GET(`/api/finance*`, `/api/logo`)뿐 — `/api/sync` 요청 0, 자산 값 포함 요청 0.
+### 2-1. 연결 저장 8칸 (시작: 예수금 1,000만·신용대출 500만, 모두 `연결 계좌` 선택 후 저장)
+| 칸 | 미리보기 | 저장 후 | 토스트 | 판정 |
+|---|---|---|---|---|
+| E1 주식 매수 × 현금 | 1,000만 → 920만 | 현금 920만, 출금 80만 `ctx_link_<거래id>`, 주식 +10 | 매수 거래가 기록되었습니다. 현금 기록도 남겼어요 | PASS |
+| E2 주식 매도 × 현금 | → 1,040만 | 입금 40만 짝 | …현금 기록도 남겼어요 | PASS |
+| E3 주식 매수 × 대출 | 500만 → 580만 | 대출 580만, `ltx_link_` borrow 80만 | …대출 기록도 남겼어요 | PASS |
+| E4 주식 매도 × 대출 | → 460만 | repay 40만 | …대출 기록도 남겼어요 | PASS |
+| **E5 코인 매수 × 현금** | → 950만 | 현금 950만, 출금 50만, 코인 1.01 | 현금 기록도 남겼어요 | **PASS(#107 이후 코인 연결 저장 끝까지 확인)** |
+| E6 코인 매도 × 현금 | → 1,050만 | 입금 50만, 코인 0.99 | 〃 | PASS |
+| E7 코인 매수 × 대출 | → 550만 | borrow 50만 | 대출 기록도… | PASS |
+| E8 코인 매도 × 대출 | → 450만 | repay 50만 | 〃 | PASS |
+옵션 순서 `연결 안 함 / 현금 계좌 / 대출`, 기본값 `연결 안 함`.
+### 2-2. 삭제 시 짝 기록·잔액 복원 (UI 실삭제)
+| 칸 | 다이얼로그 문구 | 삭제 후 |
+|---|---|---|
+| D1 주식 매수·현금 | `연결된 현금 기록도 함께 지워져요. 증권 예수금 잔액 +800,000원` | 잔액·기록·수량 **시작값과 완전 일치**, 토스트 꼬리 `연결된 현금 기록도 지웠어요` PASS |
+| D2 주식 매도·대출 | `…대출 기록도…신용대출 잔액 +400,000원` | 시작값 일치 PASS |
+| D3 주식 매도·현금 | `…잔액 -400,000원` | 시작값 일치 PASS |
+| D4 주식 매수·대출 | `…잔액 -800,000원` | 시작값 일치 PASS |
+| D5 코인 매수·현금 | `연결된 현금 기록도 함께 지워져요. 증권 예수금 잔액 +500,000원` | 시작값 일치(코인 1.01→1, 짝 기록 삭제) PASS |
+### 2-3. 하한·날짜·외화·경고
+| 항목 | 결과 |
+|---|---|
+| F1 현금 전액 사용(80만→80만 매수) | 저장 차단: `증권 예수금 잔액을 0원으로 둘 수 없어요. 연결 안 함으로 저장하거나 맞추기로 잔액을 고쳐 주세요.`, 기록·잔액 불변 PASS |
+| F2 잔액 800,001원 → 매수 | 미리보기 `→ 1원`, 저장 성공, 잔액 1 PASS (현금 하한 1원) |
+| F3 대출 300,000 → 매도 300,000 | 미리보기 `→ 0원`, 저장 성공, 대출 0 PASS (대출 하한 0원) |
+| F3b 대출 초과 상환 | `신용대출 잔액보다 많이 갚을 수 없어요…` 차단 PASS |
+| G1 지난달 날짜(10-28) | 연결 행 **0개**, 이번 달로 되돌리면 행 복귀·값 `연결 안 함` PASS |
+| H1 USD 주식 | 후보 `연결 안 함/달러 계좌`(대출 없음), `$5,000 → $4,600`, 저장 후 USD 400 출금 짝 PASS |
+| H2 JPY 주식 | 후보 `엔화 계좌`, `¥100,000 → ¥90,000` PASS |
+| W1 4.52 경고(오늘 맞춘 현금) | `오늘 맞춘 현금 잔액에 이미 들어간 금액이면 연결 안 함으로 바꿔 주세요`, 저장 가능(토스트 성공), 라이트·다크 PASS |
+| W0/W1/W2 **경고 접힘 간격** | 연결 행 → 다음 블록 간격 **16px**(접힘: 16·16, 표시: 16·16, `연결 안 함` 선택 시 16·16) PASS |
+| N1 홈 원인(시세 +100만 시나리오, 375·1280) | 연결 매수(현금·대출): 항목 `주식 시세 상승 +100만원`만, 캡션 `자산 사이에 옮긴 돈은 원인에서 뺐어요`. 연결 안 함: `주식 시세 상승`+`주식 매수 +80만원`, 캡션 없음(= main) PASS |
+### 2-4. 320 미리보기 (P1·P2, `4.58-qa-P1/P2-*`)
+금액쌍 `A → B`가 한 덩어리(`whitespace-nowrap`)로 두 번째 줄에 분리되는 것은 확인: 수십만·수백만(예수금 계좌명) 320에서 정확히 **2줄**, 375는 1줄(억 단위는 2줄). **그러나 F4 결함** — 아래.
+
+## 3. v4.57 회귀 / 엔화 회귀 (cto JPY 1엔 판정)
+| 항목 | 결과 |
+|---|---|
+| J1 ① JPY 현금 연결 매수로 잔액 전액(¥100,000) | zero 차단(저장 0), 기록·잔액 불변 PASS. 오류 문구는 `엔화 계좌 잔액을 0원으로 둘 수 없어요…` — **통화가 원으로 표기됨(권고, FAIL 아님: 동작 영향 0, 구 4.56 문구와 동일)** |
+| J1b JPY 잔액-1엔 | 미리보기 `¥100,000 → ¥1`, 저장 성공, 잔액 1 PASS |
+| K1 ①-꼬리 JPY 연결 매도 거래 삭제(잔액 ¥200, 연결 입금 ¥1,000) | 다이얼로그 `엔화 계좌 잔액 -¥199, 잔액이 부족해 ¥1만 남아요` → 삭제 후 잔액 1, 짝 기록 삭제, 토스트 꼬리 PASS |
+| K2 ② JPY 반영 입금 기록 삭제(¥500, 입금 ¥1,000) | `¥500 → ¥1 (−¥499)` + `잔액이 부족해 ¥1만 남아요.` → 토스트 **1건** `삭제하고 잔액을 되돌렸습니다. (−¥499)`, 잔액 1, 기록 0 PASS |
+| K2 KRW 반영 입금 삭제(300원, 입금 1,000) | `300원 → 1원`, 토스트 1건, 잔액 1 PASS (v4.57 하한 유지) |
+| E9 연결 없이 코인 즉시 반영 저장 | 토스트 `매수 거래가 기록되었습니다.`(꼬리 없음), 코인 1.01, 현금·대출 불변 PASS (v4.57 결함 재발 0) |
+| E10 연결 없이 주식 저장 | 성공·현금·대출 불변 PASS |
+| K3 현금 전액 출금(입출금 폼) | 3,000,000 → 3,000,000: 저장 안 됨(잔액·기록 불변), 2,999,999 → 잔액 1 기록 1 PASS |
+JPY 하한 정본: `cashBalanceFloor`(KRW·JPY 1, 그 외 0.01) 단일 사용처 확인(`cash-tx-utils`·`linked-record`·`link-text`·`cash-tx-view`).
+
+## 4. 데이터 안전 점검 (스키마·저장 키 변경 0)
+diff(`origin/main..HEAD`)에서 `asset-storage`·`cloud-sync`·`types`·`local-storage`·`data`·`app/api` **0줄**, 비테스트 `+` 줄에 localStorage·STORAGE_KEYS·setItem·pack·fetch·XHR·await 후 set/save **0건**(grep). 저장 경로는 기존 `saveData` 1회(원자성 테스트 PASS).
+독립 하네스(`harness-qa/qa.py`, 구 = **origin/main 41fbc03(v4.57) 별도 worktree 실코드**, 신 = **869984a**, 같은 가짜 서버): **45 PASS / 0 FAIL**
+| 항목 | 결과 |
+|---|---|
+| 이전 데이터(연결 기록 없음) → 신 | 기록·잔액 동일, 연결 안 함 재저장 JSON = 구 저장(lastUpdated 제외) PASS |
+| 구·신 혼재 동기화 (a) 구 B pull→다른 기록 추가·삭제→push | 서버 사본에 짝 id 4개 + B 신규 기록, 새 기기·A pull 일치, 기록 감소 0 PASS |
+| (b) 구 B가 연결 거래만 삭제 / (c) 짝 기록만 삭제 / (d,e) 동시 편집 | 기록 손실 0(짝·잔액 잔존은 알려진 한계 3), 되돌림 plan 없음 시 거래만 삭제 PASS |
+| 백업 4칸(교체·병합 × 신↔구)·공유 토큰 왕복 | 짝 id·잔액 보존, 구 기록에 `_link_` 없음, 토큰은 연결 풀림·합계 동일 PASS |
+| **롤백**(구 코드가 ctx_link_/ltx_link_ 기록을 읽고 재저장·편집 후 신 재배포) | 깨짐 0, 남은 짝 정상 되돌림, 지워진 짝의 거래 삭제는 되돌림 없음 PASS |
+| 결산·홈 diff 0 | `linked-settlement.test.ts` 골든 사본 400건 동일 + vitest 전체 PASS (연결 기록 없는 데이터 결과 main과 동일) |
+→ **사용자 기록 손실 가능성 없음.** 한계(구버전 삭제 시 짝 잔존·토큰 연결 풀림·동시 편집 잔액 원격 우선)는 spec 9절과 동일.
+
+## 5. 원칙 검사
+네트워크에 자산 값 0(PASS) / 투자 조언 문구 0(diff grep) PASS / 스키마 변경 0 → 마이그레이션 테스트 불요 PASS / 공유 이미지: 변경 없음 해당 없음 / preview 동기화 쓰기 0(`/api/sync` 0건) PASS.
+
+## 6. direction·challenge·DECISIONS 일치
+짝 id·스키마 0·id 짝 4종·이번 달 조건·하한(현금 1/0.01→**KRW·JPY 1**, 부채 0)·GA 1건 일치. JPY 하한은 cto 판정(`4.56-cto-jpy-floor.md`, 1엔 유지)과 일치, 축소 판정 범위 초과 없음.
+
+## 7. CHECKLIST C1~C46
+C1 PASS(홈·기록 같은 값 중복 0) · C2 PASS(컨트롤 +1행·기본 연결 안 함) · C3 PASS(접힘은 렌더 제외로 간격 16px 실측) · C4 해당 없음 · **C5·C6·C7·C8·C12·C13·C14·C15** PASS(4절·골든) · C9 PASS(수동 확인 전제 없음) · C10 PASS(`/api/sync` 0) · **C11 PASS**(저장 토큰 diff 0건 목록) · C16 PASS(렌더·effect 저장 호출 0) · C17 해당 없음(손실 없음) · C18 PASS(조건부 PASS 미사용) · C19 해당 없음 · C20 PASS(연결 기록 없는 기존 데이터 형태 결산 동일) · C21·C23 PASS(출금→매수 상쇄: 홈 원인 항목 0) · C22 PASS(홈 값 올바름) · C24 해당 없음 · **C25 FAIL(F4: 320px에서 10억대 금액 미리보기 잘림 — 이번 diff의 nowrap 수정 때문)** · C26·C27·C28·C29·C30·C31·C32·C33 해당 없음 · C34 해당 없음(공용 컴포넌트 변경 없음) · **C35 FAIL 연계(F4 폭×금액 표)**: 320 수십만·수백만 2줄/잘림 0, 억(9자리) 218px vs 216px(2px 경계, 육안 잘림 없음), 10억 이상 253px → 잘림 · C36·C37 PASS(단일 saveData) · C38~C40 해당 없음 · C41 해당 없음(선행 릴리스 브랜치 아님 — 단 squash 제목은 `[#4.58]` ≥ main 최대 4.57, 머지 시 이 제목 사용) · **C42 PASS**(F1~F29 자산 간 흐름 표 칸 전수: 주식·코인 × 현금·대출, 삭제·외화·지난달·재동기화 전부 실측 또는 테스트) · **C43 PASS**(`[#4.58]` > main 4.57, 핫픽스 4.57 번호 유지) · **C44 PASS**(await 이후 set/save 0, 시세 비동기 저장 경로 diff 0) · **C45 PASS**(`ADD_TRIGGER_EVENTS` 공용 맵에 physical 포함, `floating-add-button`·`screenshot-fail-notice` 모두 공용 맵 사용) · **C46 PASS**(1차 승인 70999a3 이후 문구·UI 증분 = 869984a의 간격(link-account-row 경고 접힘 렌더 제외)·미리보기 nowrap·cash-tx-view 삭제 문구/토스트 — 본 보고서에서 375·320 실측으로 증분 확인함, 결과는 F4 외 PASS).
+
+## 8. FAIL 항목 (developer 수정 지시)
+### F4 (C25·C35, 경미 / 기존 사용자 영향: 10억 이상 단일 현금·대출 계좌 + 320px 폭만)
+- **파일**: `src/app/(main)/_components/forms/trade/link-account-row.tsx` 미리보기 `<span className="whitespace-nowrap">{main[1]} → {main[2]}</span>`
+- **재현**: 320px 뷰포트, 현금 계좌 `한국투자증권 종합위탁 예수금 계좌` 잔액 1,234,567,890원, 주식 매수 10주×8,000,000원, 연결 계좌 선택 → 미리보기 `…1,234,567,890원 → 1,154,567,8`에서 잘림(`screenshots/4.58-qa-P2-preview-10억-320.png`). 금액쌍 폭 253px > 컨테이너 216px, 그리드 래퍼 `overflow-hidden`이 잘라냄. 억 단위(123,456,789→43,456,789)도 218px로 2px 초과(육안 잘림 없음, 여유 0).
+- **원인**: 이번 커밋에서 금액쌍 전체를 nowrap 한 덩어리로 묶어 폭 초과 시 줄바꿈 불가. 이전(70999a3)은 어디서든 줄바꿈되어 잘림 0이었음(회귀).
+- **수정 방향**: 덩어리를 `A →` / `B` 식으로 각 금액만 nowrap(`<span nowrap>{main[1]}</span><span> → </span><span nowrap>{main[2]}</span>`)하거나 `max-w-full`에 `[overflow-wrap:anywhere]` 허용, 또는 래퍼 `overflow-hidden` 아래 p에 여유 폭 확보. 수정 후 320 × (수십만·수백만·억·10억) 행 높이·잘림 재측정.
+### 권고(FAIL 아님)
+- zero 오류 문구가 외화 계좌에서도 `0원`으로 표기(JPY/USD). 가능하면 `{fmt(0, 통화)}`로 통화 맞춤(`linked-record`/`link-text` zero 문구). 동작·데이터 영향 0.
+
+## 9. 대표 요약 (PASS 아님 — 수정 후 재검증 필요)
+① 주식·코인 거래 저장 시 현금·대출 계좌를 골라 짝 기록과 잔액을 함께 반영하고 삭제하면 되돌리며, 홈 원인에서 내부 이동은 빠진다(코인 포함 8칸·삭제 5칸 실측 통과, 현금 하한 1원·JPY 1엔·대출 0원 확인). ② 구버전(v4.57) 실코드 혼재·백업·토큰·롤백 45건 통과, 스키마·저장 키·서버 전송 변경 0, 기록 손실 가능성 없음. ③ 남은 것은 320px 화면에서 10억 이상 금액의 미리보기 끝자리가 잘리는 경미 결함 1건(F4) 수정 후 재확인뿐.
